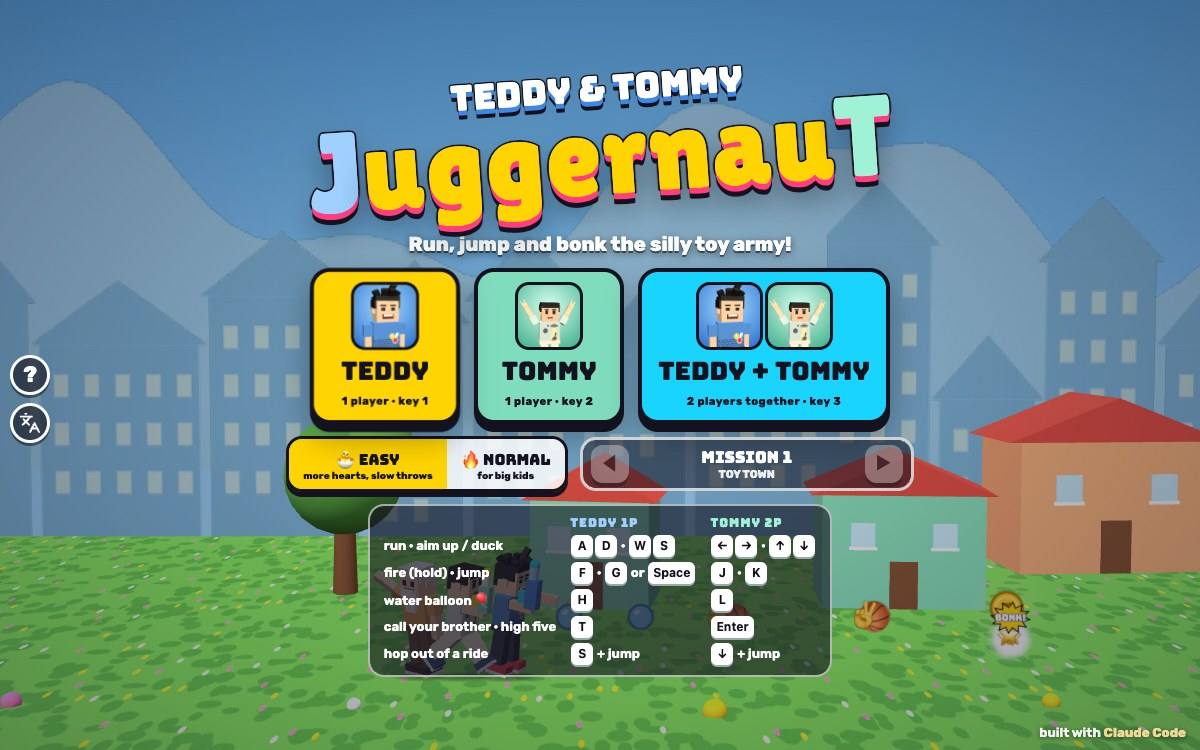
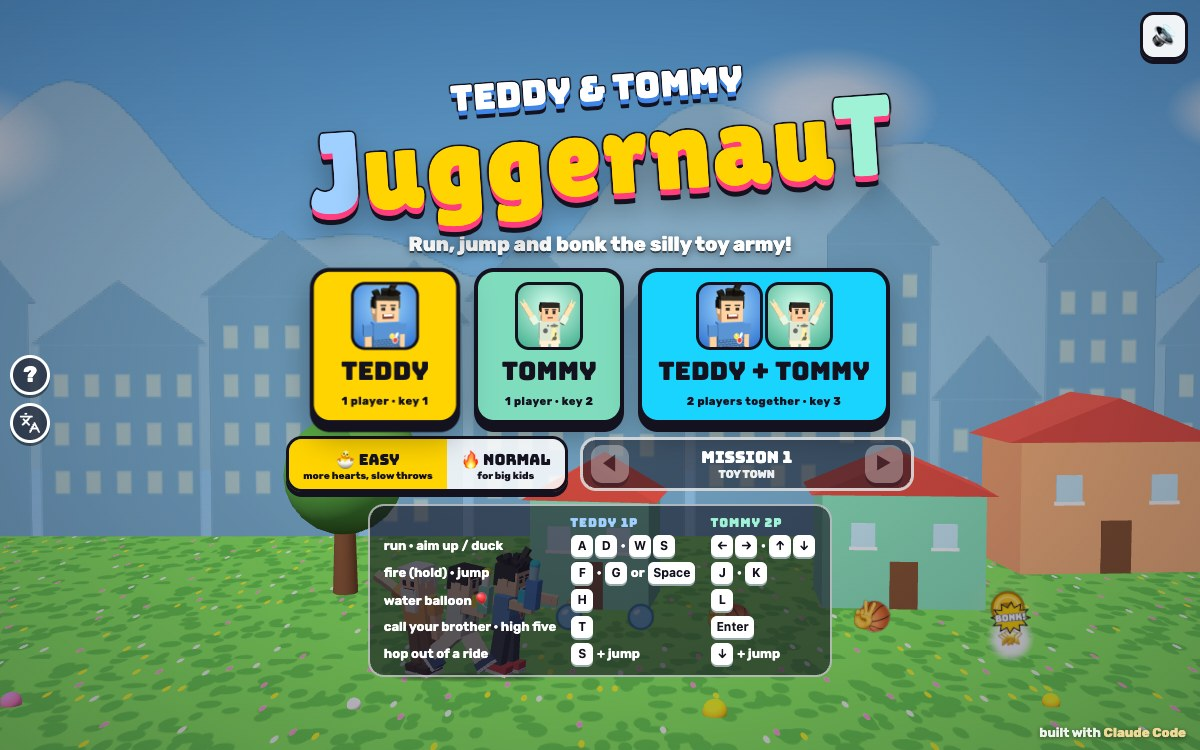
A sound button on every screen
The title, pause, end-of-mission and game-over screens get a 🔊 in the
top-right corner (48 px, also on phones); in a mission it stays in the top
bar. Both are white now, so the dark speaker emoji shows, and they switch
to 🔇 together.

diff --git a/dist/juggernaut.html b/dist/juggernaut.html
@@ -211,6 +211,14 @@
   .tally .n { text-align: right; font-family: var(--display); font-weight: 400; color: var(--yellow); }
   .tally .tot { font-family: var(--display); font-weight: 400; color: var(--yellow); font-size: 18px; }
   #overEmoji, #winEmoji { font-size: clamp(54px, 12vh, 110px); line-height: 1; }
+  /* the sound button on the title and every other menu screen (in a mission it sits in the top bar) */
+  .ibtn.corner {
+    position: fixed; top: max(12px, env(safe-area-inset-top)); right: max(12px, env(safe-area-inset-right)); width: 48px; height: 48px;
+    border-radius: 14px; font-size: 24px; border-width: 3px; box-shadow: 0 4px 0 var(--ink); pointer-events: auto;
+  }
+  /* the speaker emoji is dark grey: a light button so it shows */
+  .muteBtn { background: rgba(255, 255, 255, 0.92); border-color: var(--ink); }
+  .ibtn.corner:active { transform: translateY(3px); box-shadow: 0 1px 0 var(--ink); }
   #loading { position: fixed; inset: 0; display: grid; place-items: center; background: #5fb4f0; font-family: var(--display); font-size: 28px; letter-spacing: 2px; padding: 24px; text-align: center; }
   @media (max-width: 640px) { .credit { display: none; } }
   @media (max-height: 520px) {
@@ -334,6 +342,8 @@
   <div class="row"><button id="winMenuBtn" class="btn pulse">MENU</button></div>
   <p class="hint">Enter · Esc menu</p>
 </div>
+
+<button id="menuMute" class="ibtn muteBtn corner hidden" title="Sound (M)" aria-label="Sound on or off">🔊</button>
 
 <div id="loading">LOADING…</div>
 
@@ -7139,6 +7149,7 @@ JUG.TITLE = 'JuggernauT';
     st.mode = m;
     st.modeT = 0;
     $('hud').classList.toggle('hidden', m === 'title' || m === 'loading');
+    $('menuMute').classList.toggle('hidden', m === 'play' || m === 'celebrate' || m === 'loading');
     layout();
   }
 
@@ -7567,7 +7578,7 @@ Kit.help.setup({
 
     // HUD
     'HIGH FIVE': '击掌', 'GO! ➜': '冲啊！➜', JUMP: '跳', 'Pause (P)': '暂停 (P)', 'Sound (M)': '声音 (M)',
-    'he blocks hits': '他会帮你挡住攻击',
+    'he blocks hits': '他会帮你挡住攻击', 'Sound on or off': '声音开 / 关',
 
     // banners
     'WARNING!': '注意！', 'BONKED!': '被打晕啦！', 'HIGH FIVE!': '击掌！', 'CLEAR!': '过关！',

diff --git a/index.html b/index.html
@@ -211,6 +211,14 @@
   .tally .n { text-align: right; font-family: var(--display); font-weight: 400; color: var(--yellow); }
   .tally .tot { font-family: var(--display); font-weight: 400; color: var(--yellow); font-size: 18px; }
   #overEmoji, #winEmoji { font-size: clamp(54px, 12vh, 110px); line-height: 1; }
+  /* the sound button on the title and every other menu screen (in a mission it sits in the top bar) */
+  .ibtn.corner {
+    position: fixed; top: max(12px, env(safe-area-inset-top)); right: max(12px, env(safe-area-inset-right)); width: 48px; height: 48px;
+    border-radius: 14px; font-size: 24px; border-width: 3px; box-shadow: 0 4px 0 var(--ink); pointer-events: auto;
+  }
+  /* the speaker emoji is dark grey: a light button so it shows */
+  .muteBtn { background: rgba(255, 255, 255, 0.92); border-color: var(--ink); }
+  .ibtn.corner:active { transform: translateY(3px); box-shadow: 0 1px 0 var(--ink); }
   #loading { position: fixed; inset: 0; display: grid; place-items: center; background: #5fb4f0; font-family: var(--display); font-size: 28px; letter-spacing: 2px; padding: 24px; text-align: center; }
   @media (max-width: 640px) { .credit { display: none; } }
   @media (max-height: 520px) {
@@ -334,6 +342,8 @@
   <div class="row"><button id="winMenuBtn" class="btn pulse">MENU</button></div>
   <p class="hint">Enter · Esc menu</p>
 </div>
+
+<button id="menuMute" class="ibtn muteBtn corner hidden" title="Sound (M)" aria-label="Sound on or off">🔊</button>
 
 <div id="loading">LOADING…</div>
 

diff --git a/js/zh.js b/js/zh.js
@@ -55,7 +55,7 @@
 
     // HUD
     'HIGH FIVE': '击掌', 'GO! ➜': '冲啊！➜', JUMP: '跳', 'Pause (P)': '暂停 (P)', 'Sound (M)': '声音 (M)',
-    'he blocks hits': '他会帮你挡住攻击',
+    'he blocks hits': '他会帮你挡住攻击', 'Sound on or off': '声音开 / 关',
 
     // banners
     'WARNING!': '注意！', 'BONKED!': '被打晕啦！', 'HIGH FIVE!': '击掌！', 'CLEAR!': '过关！',

diff --git a/js/game.js b/js/game.js
@@ -1142,6 +1142,7 @@
     st.mode = m;
     st.modeT = 0;
     $('hud').classList.toggle('hidden', m === 'title' || m === 'loading');
+    $('menuMute').classList.toggle('hidden', m === 'play' || m === 'celebrate' || m === 'loading');
     layout();
   }
 

diff --git a/README.md b/README.md
@@ -32,9 +32,10 @@ On the title screen, tap your face to play alone (**TEDDY** or **TOMMY**), or ta
 | water balloon 🎈 (tank: cannon, Boing Bot: ground pound) | H | L | 🎈 |
 | hop out of a ride (bail out when it smokes) | S + jump | ↓ + jump | pad down + ⬆ |
 | call your brother (1 player) · high five (2 players) | T | Enter | his face |
-| pause · sound | P or Esc · M | | ❚❚ · 🔊 at the top |
+| pause · sound on / off | P or Esc · M | | ❚❚ · 🔊 at the top |
 
 - **Shooting in 8 directions:** hold up to aim up, up + left or right to aim diagonally. In the air, down aims down (and down-diagonally). On the ground, down ducks: you shoot low and the shots fly over you.
+- **Sound on / off:** the white 🔊 button turns all the sound off (🔇) and on again: in a mission it's in the top bar next to ❚❚, and on the title, pause, end-of-mission and game-over screens it's in the top-right corner. M works anywhere. The choice is remembered (the kit's `claudeGames.muted`).
 - **Playing alone**, both key sets work, so the arrows and J K L work too.
 - **Touch:** the pad on the left runs and aims, and your blaster fires by itself whenever there's something to bonk. On a touch screen the ground sits a little higher, so the buttons never cover the brothers.
 - **Two players on an iPad:** Teddy has a pad and buttons on the left, Tommy on the right, and the high-five button sits at the top in the middle.
